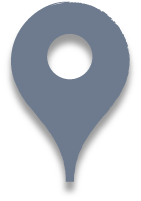
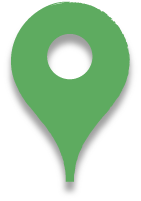
fix Color
fix Color

diff --git a/js/mapMain.js b/js/mapMain.js
@@ -116,151 +116,288 @@ function initMap() {
 
     var map = new google.maps.Map(document.getElementById('map'), {
         center: {
-            lat: 24.962903,
-            lng: 121.213771
+            lat: 24.8651006,
+            lng: 121.2115186
         },
-        zoom: 13,
-        styles: [{
-                "elementType": "geometry",
-                "stylers": [{
-                    "color": "#f5f5f5"
-                        }]
-                    },
+        zoom: 17,
+        styles: [
             {
-                "elementType": "labels.icon",
-                "stylers": [{
-                    "visibility": "off"
-                        }]
-                    },
+                "elementType": "geometry",
+                "stylers": [
+                    {
+                        "color": "#0b4213"
+      }
+    ]
+  },
             {
                 "elementType": "labels.text.fill",
-                "stylers": [{
-                    "color": "#616161"
-                        }]
-                    },
+                "stylers": [
+                    {
+                        "color": "#8ec3b9"
+      }
+    ]
+  },
             {
                 "elementType": "labels.text.stroke",
-                "stylers": [{
-                    "color": "#f5f5f5"
-                        }]
-                    },
+                "stylers": [
+                    {
+                        "color": "#1a3646"
+      }
+    ]
+  },
+            {
+                "featureType": "administrative",
+                "elementType": "geometry",
+                "stylers": [
+                    {
+                        "visibility": "off"
+      }
+    ]
+  },
             {
                 "featureType": "administrative.country",
-                "elementType": "geometry.fill",
-                "stylers": [{
-                    "visibility": "simplified"
-                        }]
-                    },
-            {
-                "featureType": "administrative.land_parcel",
-                "elementType": "geometry.fill",
-                "stylers": [{
-                        "color": "#ffeb3b"
-                            },
+                "elementType": "geometry.stroke",
+                "stylers": [
                     {
-                        "visibility": "simplified"
-                            }
-                        ]
-                    },
+                        "color": "#4b6878"
+      }
+    ]
+  },
             {
                 "featureType": "administrative.land_parcel",
                 "elementType": "labels.text.fill",
-                "stylers": [{
-                    "color": "#bdbdbd"
-                        }]
-                    },
+                "stylers": [
+                    {
+                        "color": "#64779e"
+      }
+    ]
+  },
+            {
+                "featureType": "administrative.province",
+                "elementType": "geometry.stroke",
+                "stylers": [
+                    {
+                        "color": "#4b6878"
+      }
+    ]
+  },
+            {
+                "featureType": "landscape.man_made",
+                "elementType": "geometry.stroke",
+                "stylers": [
+                    {
+                        "color": "#334e87"
+      }
+    ]
+  },
+            {
+                "featureType": "landscape.natural",
+                "elementType": "geometry",
+                "stylers": [
+                    {
+                        "color": "#023e58"
+      }
+    ]
+  },
+            {
+                "featureType": "poi",
+                "stylers": [
+                    {
+                        "visibility": "off"
+      }
+    ]
+  },
             {
                 "featureType": "poi",
                 "elementType": "geometry",
-                "stylers": [{
-                    "color": "#eeeeee"
-                        }]
-                    },
+                "stylers": [
+                    {
+                        "color": "#283d6a"
+      }
+    ]
+  },
             {
                 "featureType": "poi",
                 "elementType": "labels.text.fill",
-                "stylers": [{
-                    "color": "#757575"
-                        }]
-                    },
+                "stylers": [
+                    {
+                        "color": "#6f9ba5"
+      }
+    ]
+  },
+            {
+                "featureType": "poi",
+                "elementType": "labels.text.stroke",
+                "stylers": [
+                    {
+                        "color": "#1d2c4d"
+      }
+    ]
+  },
             {
                 "featureType": "poi.park",
-                "elementType": "geometry",
-                "stylers": [{
-                    "color": "#e5e5e5"
-                        }]
-                    },
+                "elementType": "geometry.fill",
+                "stylers": [
+                    {
+                        "color": "#023e58"
+      }
+    ]
+  },
             {
                 "featureType": "poi.park",
                 "elementType": "labels.text.fill",
-                "stylers": [{
-                    "color": "#9e9e9e"
-                        }]
-                    },
+                "stylers": [
+                    {
+                        "color": "#3C7680"
+      }
+    ]
+  },
+            {
+                "featureType": "road",
+                "stylers": [
+                    {
+                        "weight": 3.5
+      }
+    ]
+  },
             {
                 "featureType": "road",
                 "elementType": "geometry",
-                "stylers": [{
-                    "color": "#f7dead"
-                        }]
-                    },
+                "stylers": [
+                    {
+                        "color": "#24602b"
+      }
+    ]
+  },
+            {
+                "featureType": "road",
+                "elementType": "labels.icon",
+                "stylers": [
+                    {
+                        "visibility": "off"
+      }
+    ]
+  },
+            {
+                "featureType": "road",
+                "elementType": "labels.text.fill",
+                "stylers": [
+                    {
+                        "color": "#9bcea1"
+      }
+    ]
+  },
+            {
+                "featureType": "road",
+                "elementType": "labels.text.stroke",
+                "stylers": [
+                    {
+                        "color": "#1d2c4d"
+      },
+                    {
+                        "visibility": "off"
+      }
+    ]
+  },
             {
                 "featureType": "road.arterial",
-                "elementType": "labels.text.fill",
-                "stylers": [{
-                    "color": "#757575"
-                        }]
-                    },
-            {
-                "featureType": "road.highway",
-                "elementType": "geometry",
-                "stylers": [{
-                    "color": "#dadada"
-                        }]
-                    },
+                "elementType": "geometry.stroke",
+                "stylers": [
+                    {
+                        "weight": 2.5
+      }
+    ]
+  },
             {
                 "featureType": "road.highway",
                 "elementType": "labels.text.fill",
-                "stylers": [{
-                    "color": "#616161"
-                        }]
-                    },
+                "stylers": [
+                    {
+                        "color": "#b0d5ce"
+      }
+    ]
+  },
+            {
+                "featureType": "road.highway",
+                "elementType": "labels.text.stroke",
+                "stylers": [
+                    {
+                        "color": "#023e58"
+      }
+    ]
+  },
             {
                 "featureType": "road.local",
+                "elementType": "geometry.stroke",
+                "stylers": [
+                    {
+                        "weight": 2
+      }
+    ]
+  },
+            {
+                "featureType": "transit",
+                "stylers": [
+                    {
+                        "visibility": "off"
+      }
+    ]
+  },
+            {
+                "featureType": "transit",
                 "elementType": "labels.text.fill",
-                "stylers": [{
-                    "color": "#9e9e9e"
-                        }]
-                    },
+                "stylers": [
+                    {
+                        "color": "#98a5be"
+      }
+    ]
+  },
+            {
+                "featureType": "transit",
+                "elementType": "labels.text.stroke",
+                "stylers": [
+                    {
+                        "color": "#1d2c4d"
+      }
+    ]
+  },
             {
                 "featureType": "transit.line",
-                "elementType": "geometry",
-                "stylers": [{
-                    "color": "#e5e5e5"
-                        }]
-                    },
+                "elementType": "geometry.fill",
+                "stylers": [
+                    {
+                        "color": "#283d6a"
+      }
+    ]
+  },
             {
                 "featureType": "transit.station",
                 "elementType": "geometry",
-                "stylers": [{
-                    "color": "#eeeeee"
-                        }]
-                    },
+                "stylers": [
+                    {
+                        "color": "#3a4762"
+      }
+    ]
+  },
             {
                 "featureType": "water",
                 "elementType": "geometry",
-                "stylers": [{
-                    "color": "#b0f1f3"
-                        }]
-                    },
+                "stylers": [
+                    {
+                        "color": "#4195bf"
+      }
+    ]
+  },
             {
                 "featureType": "water",
                 "elementType": "labels.text.fill",
-                "stylers": [{
-                    "color": "#9e9e9e"
-                        }]
-                    }
-                ]
+                "stylers": [
+                    {
+                        "color": "#4e6d70"
+      }
+    ]
+  }
+]
     });
 }
 
